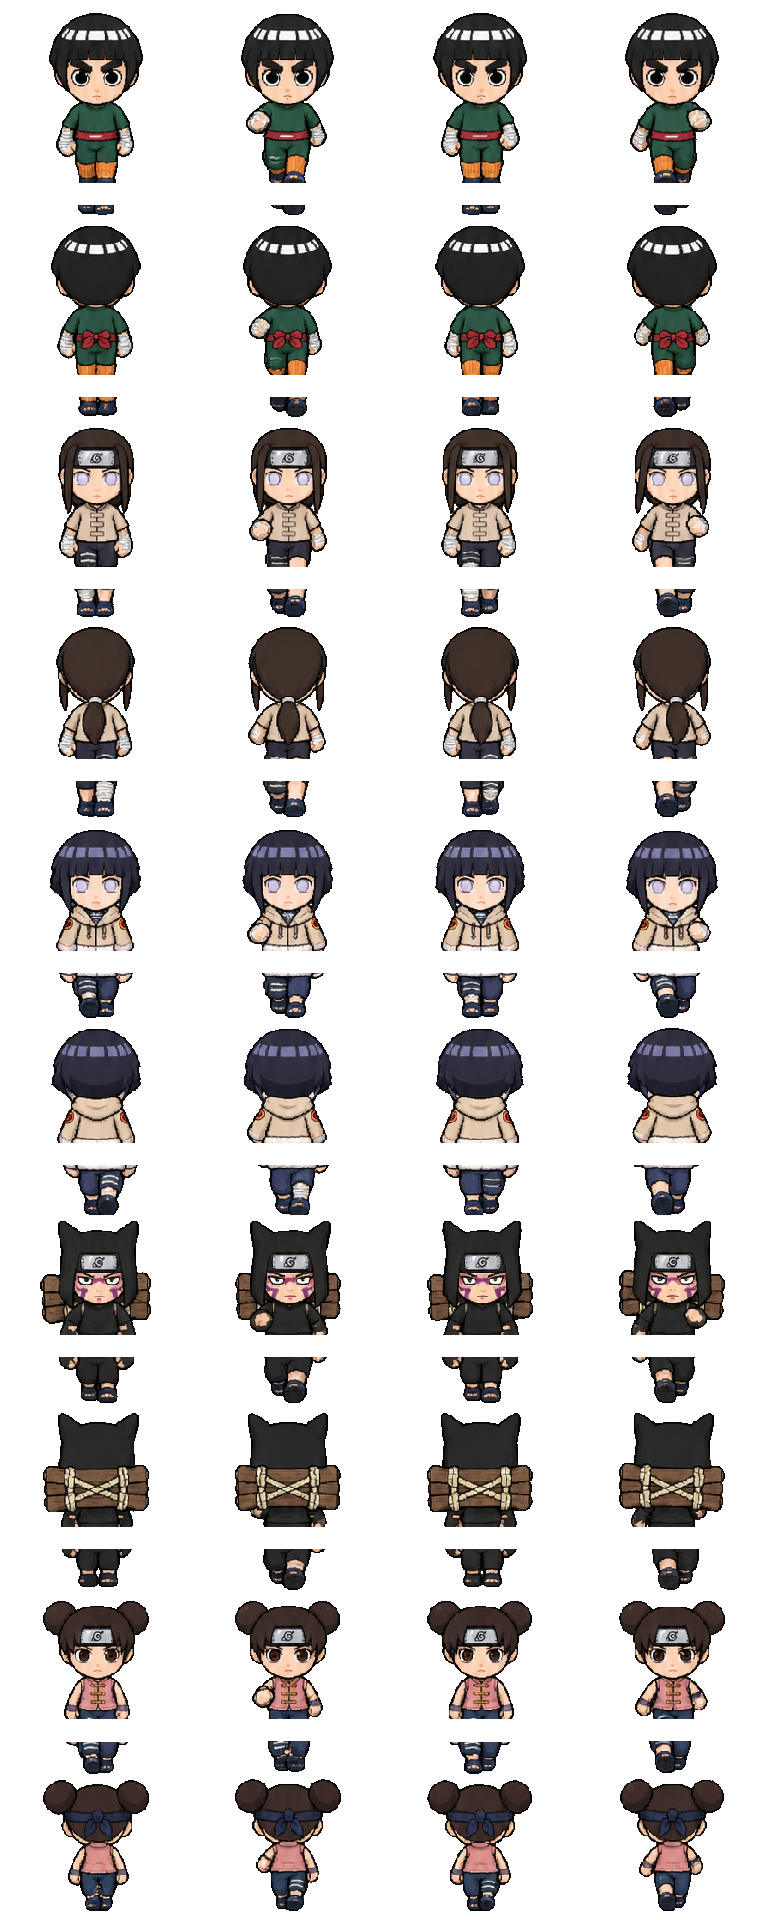
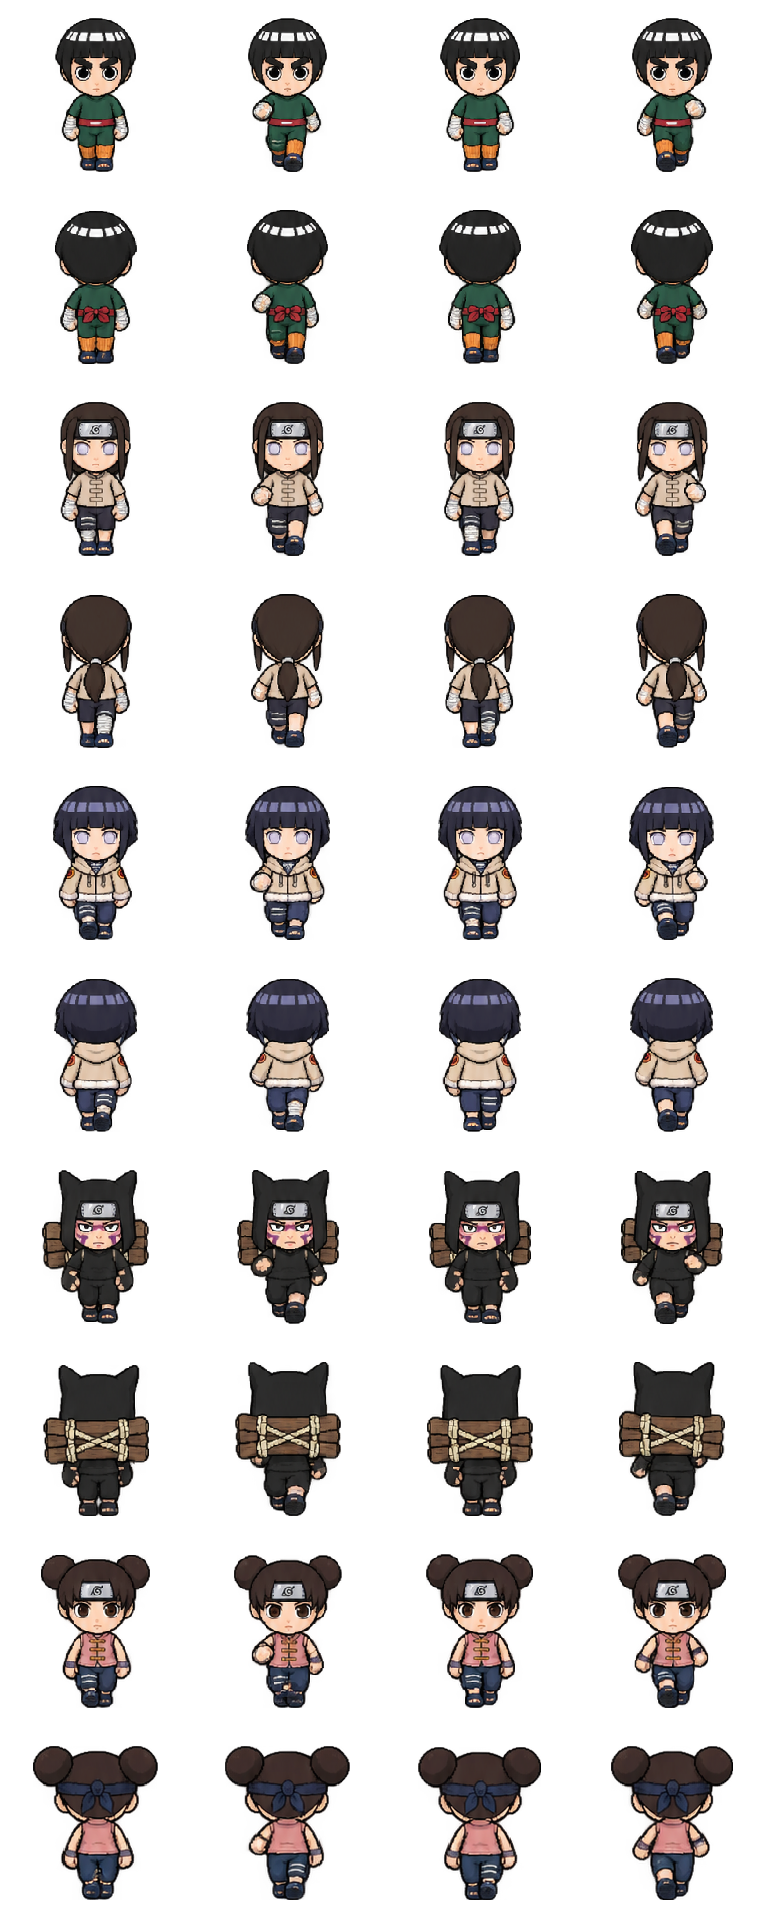
Corrige recorte dos atlas de caminhada

diff --git a/docs/14-CONTEXTO-DO-CHAT.md b/docs/14-CONTEXTO-DO-CHAT.md
@@ -1840,4 +1840,4 @@ A mensagem também trouxe a passagem do Claude com as entregas das rodadas anter
 
 **Resposta da rodada**
 
-Todas as 114 versões receberam cinco vistas de caminhada e quatro quadros por vista, com W/S em costas/frente, A/D em perfil e as combinações em diagonal. Ajudantes e Mega Elites usam as folhas da versão; quatro modelos de inimigos comuns têm perfil na perseguição. A ficha usa o retrato em perfil da seleção. Câmera, foco e fade dos inimigos foram implementados. Hanzō e Haku receberam roupas e atlas revisados e Zabuza recebeu a folha de selos. A altura usa o sprite visível, com faixas infantil e adulta e tamanho próprio para Zabuza. Abertura Genin começa com teto 12 e retorna à densidade anterior aos 60 s. Colisão, borda do altar e feedback de dano foram corrigidos. O portal conserva XP dos orbes atraídos ou próximos. Tipos, build e 93 testes passaram no Node. A [matriz](development/COBERTURA-DE-VISTAS.md) registra o caminho de cada vista e a [fila](13-PENDENCIAS-PARA-CONTINUAR.md) aponta os passos seguintes. A direção e o espelho do dash acompanham a entrada, com arte de quatro fases dianteiras e traseiras. Faltam as poses laterais/diagonais dedicadas na maioria das versões e a aprovação visual em partida. As imagens e o vídeo de referência foram tratados fora da publicação.
+As folhas foram repaginadas pelas margens reais do desenho após a inspeção visual dos atlas detectar recortes com fragmentos da fileira anterior. Todas as 114 versões receberam cinco vistas de caminhada e quatro quadros por vista, com W/S em costas/frente, A/D em perfil e as combinações em diagonal. Ajudantes e Mega Elites usam as folhas da versão; quatro modelos de inimigos comuns têm perfil na perseguição. A ficha usa o retrato em perfil da seleção. Câmera, foco e fade dos inimigos foram implementados. Hanzō e Haku receberam roupas e atlas revisados e Zabuza recebeu a folha de selos. A altura usa o sprite visível, com faixas infantil e adulta e tamanho próprio para Zabuza. Abertura Genin começa com teto 12 e retorna à densidade anterior aos 60 s. Colisão, borda do altar e feedback de dano foram corrigidos. O portal conserva XP dos orbes atraídos ou próximos. Tipos, build e 93 testes passaram no Node. A [matriz](development/COBERTURA-DE-VISTAS.md) registra o caminho de cada vista e a [fila](13-PENDENCIAS-PARA-CONTINUAR.md) aponta os passos seguintes. A direção e o espelho do dash acompanham a entrada, com arte de quatro fases dianteiras e traseiras. Faltam as poses laterais/diagonais dedicadas na maioria das versões e a aprovação visual em partida. As imagens e o vídeo de referência foram tratados fora da publicação.

diff --git a/skills/criar-arte-shinobibonk/SKILL.md b/skills/criar-arte-shinobibonk/SKILL.md
@@ -9,7 +9,7 @@ Leia a direção de arte de `AGENTS.md`. Abra os atlases usados pelo módulo alv
 
 - Personagens usam cabeça maior, corpo compacto, paleta legível e pés no mesmo ponto de apoio. Confira o nível inicial, as evoluções e o NPC na cena antes de substituir uma região. Veja `src/game/evolution.ts` e `src/scene/GameCanvas.tsx`.
 - Itens e pílulas usam desenhos distintos. Descreva o objeto e a cor de cada célula na geração. Confira a ordem visual e a associação por ID em `src/game/inventoryArt.ts`. Colete, bandana, pergaminho, kunai e shuriken precisam ter formas diferentes.
-- Meça as bordas dos atlases entre as silhuetas. Gere margens transparentes e use os limites reais se a folha vier irregular. Valide tanto na oferta grande quanto no inventário pequeno. Confira vazamento, recorte e alinhamento.
+- Meça as bordas dos atlases entre as silhuetas. Separe fileiras pelos vãos transparentes do original antes de centralizar cada célula. Use os limites reais quando a geração vier irregular e verifique as quatro margens de cada quadro com o canal alfa. Valide tanto na oferta grande quanto no inventário pequeno. Confira vazamento, recorte e alinhamento.
 - Para animação use a skill `movimentar-shinobi`. A referência primária é o sprite estático da forma já usado por `portraitRegion`. Indique a célula exata se ele estiver num atlas. Use a folha do Naruto Academia só como referência de poses e organização. Compare o personagem parado e em movimento, conferindo rosto, cabelo, roupas, cores, acessórios, proporções e apoio dos pés antes de integrar.
 - Para cada novo jogável e cada evolução, entregue repouso, caminhada, ataque, pulo e dash/esquiva. Use quadros de ação que representem o golpe do personagem, como a rasteira de Lee e o chute alto de Guy. Confira preparação, execução e recuperação.
 - Nos efeitos de técnicas, consulte a referência da obra e a direção visual de jogos oficiais quando houver. Recrie o efeito com a geometria e a paleta do projeto. Confira direção, escala, impacto e a tecla H sem depender de mudanças no dano. Em bijū, confira a silhueta e conte os apêndices visíveis antes de registrar a textura.

diff --git a/docs/18-CONTEXTO-PERGUNTAS-RESPOSTAS.md b/docs/18-CONTEXTO-PERGUNTAS-RESPOSTAS.md
@@ -114,7 +114,7 @@ O usuário exige vistas distintas para todas as versões. W e S usam costas e fr
 
 ## 4. Registro cronológico de P/R (todas as rodadas)
 
-**Rodada 64 (14/11)** — integrou cinco vistas de caminhada e retratos em perfil nas 114 versões, com o mesmo controlador para ajudantes e Mega Elites. Quatro inimigos comuns receberam perfil. Atualizou Hanzō, Haku, Zabuza, altura do elenco, foco e câmera. Tipos, build e 93 testes passaram. Arte de pulo/dash em ângulos adicionais e validação em partida seguem na [fila](13-PENDENCIAS-PARA-CONTINUAR.md). Pedido completo em [docs/14](14-CONTEXTO-DO-CHAT.md) e vistas por versão na [matriz](development/COBERTURA-DE-VISTAS.md).
+**Rodada 64 (14/11)** — integrou cinco vistas de caminhada e retratos em perfil nas 114 versões, com o mesmo controlador para ajudantes e Mega Elites. Quatro inimigos comuns receberam perfil. A revisão dos 26 atlas eliminou vazamentos de quadros vizinhos. Atualizou Hanzō, Haku, Zabuza, altura do elenco, foco e câmera. Tipos, build e 93 testes passaram. Arte de pulo/dash em ângulos adicionais e validação em partida seguem na [fila](13-PENDENCIAS-PARA-CONTINUAR.md). Pedido completo em [docs/14](14-CONTEXTO-DO-CHAT.md) e vistas por versão na [matriz](development/COBERTURA-DE-VISTAS.md).
 
 Resumo de cada rodada com o estado. Texto integral dos pedidos e respostas: [14-CONTEXTO-DO-CHAT.md](14-CONTEXTO-DO-CHAT.md) (seção de mesmo título) e, para o chat anterior, [ShinobiBonk_CONTEXTO_COMPLETO_DO_CHAT.md](../ShinobiBonk_CONTEXTO_COMPLETO_DO_CHAT.md) (raiz do projeto).
 

diff --git a/CHANGELOG.md b/CHANGELOG.md
@@ -5,6 +5,7 @@
 - As 114 versões têm quatro quadros para cada uma das cinco vistas de caminhada. W e S selecionam costas e frente; A e D, perfil; as combinações de teclas, três quartos. Ajudantes e Mega Elites compartilham os recortes. Quatro modelos de inimigos comuns também receberam fileiras laterais.
 - As fotos da seleção e da ficha usam o mesmo perfil da versão. Hanzō recebe perfil próprio. A normalização preserva a escala de cada ator ao alternar vistas.
 - O dash acompanha o vetor das oito direções. Pulo e dash contam com quatro fases de frente e de costas; a maioria das versões ainda precisa de arte lateral e diagonal dedicada. A avaliação visual em partida segue na fila.
+- Os 26 atlas novos foram repaginados pelas margens reais da arte. Isso corrigiu 320 células retas que invadiam a margem, com partes da fileira vizinha visíveis em alguns quadros. O teste verifica também a transparência das margens.
 - Nova skill de jutsus WebGL com referências e mapa de implementação. Verificação de tipos, build e 93 testes por código passaram.
 
 ## 14/11/2026 — direção de caminhada, foco do jogador e correções da fila

diff --git a/docs/development/COBERTURA-DE-VISTAS.md b/docs/development/COBERTURA-DE-VISTAS.md
@@ -6,7 +6,7 @@ Os Mega Elites e os ajudantes que usam essas versões consultam as mesmas folhas
 
 O dash acompanha o vetor e o lado das oito direções, com quatro fases de frente e de costas. A arte de perfil dedicada do dash está no Naruto Academia. Para as demais versões o dash e o pulo continuam apoiados nas vistas frontal e traseira. A aprovação visual dos ângulos, poses e transições em partida está pendente conforme a [política de testes](TESTING_POLICY.md).
 
-Linhas das folhas começam em zero. A suíte em `tests/movimento.test.mjs` inspeciona os recortes efetivamente usados pelo controlador, os quatro quadros e o espelho.
+Linhas das folhas começam em zero. A suíte em `tests/movimento.test.mjs` inspeciona os recortes efetivamente usados pelo controlador, os quatro quadros, o espelho e a margem transparente das células dos 26 atlas dedicados. Os atlas foram repaginados a partir dos originais para evitar recorte e vazamento da fileira vizinha.
 
 | Versão | S/W · frente/costas | A/D · perfil | Diagonais · frente/costas |
 | --- | --- | --- | --- |
